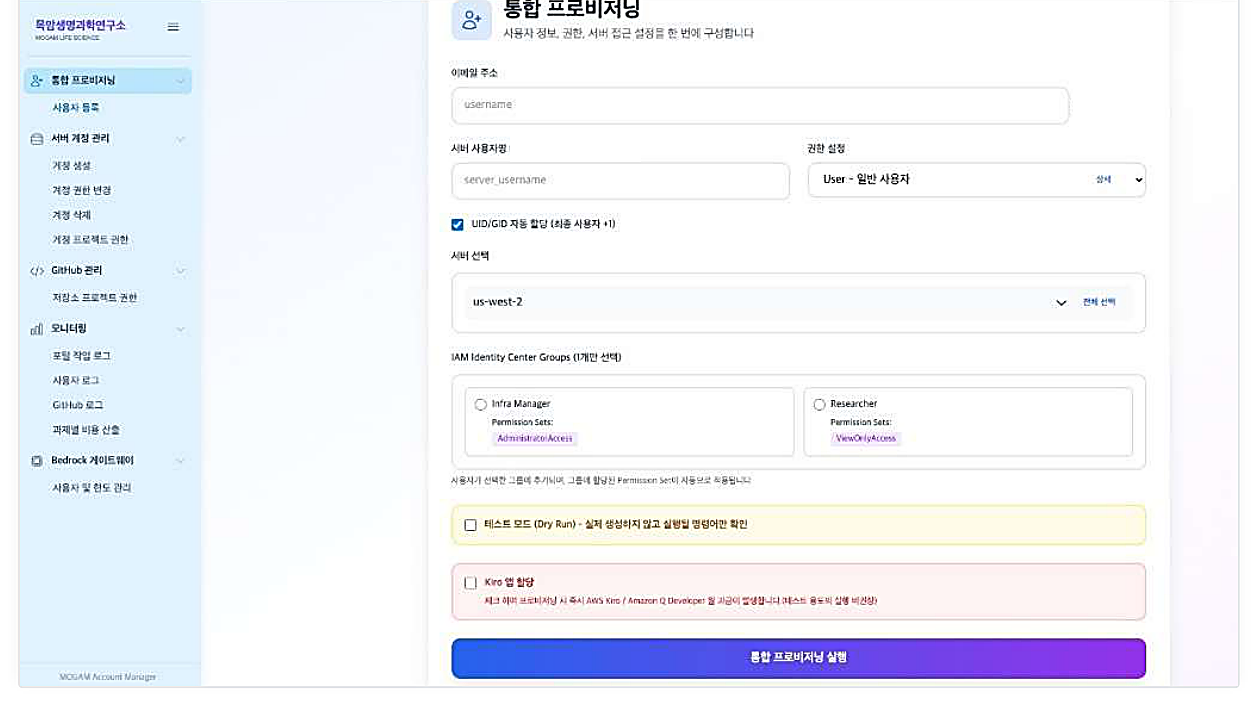
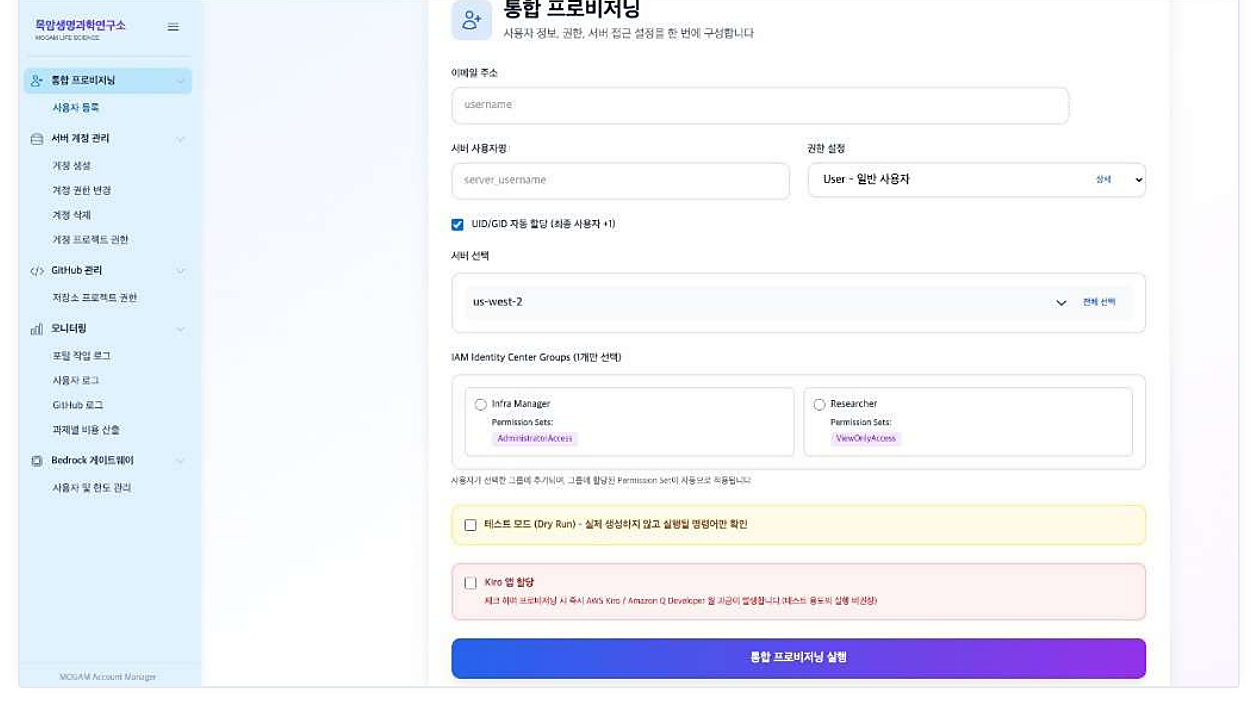
fix(site): 포털·비용 화면의 깨진 가림을 고치고 익명 라벨로 정리
- 단색 가림 상자 대신 바로 옆 깨끗한 열의 행별 색을 이어 붙여 행 강조색·구분선이 끊기지 않게 함
- 비용 화면: 카드 밖으로 삐져나가던 흰 상자 제거, 반쯤 지워졌던 표 머리글 복원(데이터 행만 카드 안쪽에서 가림), 금액 칸은 ₩ ●●●,●●● 로 표시
- Bedrock 사용자 칸은 user01…, 작업 로그 인스턴스 칸은 headnode-01… 익명 라벨로 채움
- 선명화를 약하게 조정(원본 슬라이드의 블록 노이즈를 덜 키움), 이미지 4장 링크에 ?v=2

diff --git a/index.html b/index.html
@@ -613,8 +613,8 @@
                 <img src="assets/arch/finops-architecture.svg" alt="과제별 비용 정산 아키텍처 — 수집 에이전트·CUR·S3 Inventory를 Glue·Athena로 결합하고 Flask 배분 엔진과 React 대시보드로 제공, 배분 로직 4단계" loading="lazy" decoding="async">
                 <span>아키텍처·배분 로직</span>
               </a>
-              <a class="arch-fig" href="assets/arch/finops-cost-dashboard.png" target="_blank" rel="noopener">
-                <img src="assets/arch/thumb/finops-cost-dashboard.webp" alt="과제별 비용 대시보드 — 달력·일/월 전환, 과제·사용자·인스턴스별 보기, USD/KRW, 엑셀 다운로드(금액·과제명 가림)" loading="lazy" decoding="async">
+              <a class="arch-fig" href="assets/arch/finops-cost-dashboard.png?v=2" target="_blank" rel="noopener">
+                <img src="assets/arch/thumb/finops-cost-dashboard.webp?v=2" alt="과제별 비용 대시보드 — 달력·일/월 전환, 과제·사용자·인스턴스별 보기, USD/KRW, 엑셀 다운로드(금액·과제명 가림)" loading="lazy" decoding="async">
                 <span>과제별 비용 대시보드</span>
               </a>
             </div>
@@ -713,18 +713,18 @@
             </div>
           </div>
           <div class="arch-figs">
-            <span class="arch-figs__label">포털 화면 — 클릭하면 원본이 열립니다 · 계정명과 호스트명은 가렸습니다</span>
+            <span class="arch-figs__label">포털 화면 — 클릭하면 원본이 열립니다 · 계정명과 호스트명은 익명으로 바꿨습니다</span>
             <div class="arch-figs__row">
-              <a class="arch-fig" href="assets/arch/portal-onboarding.png" target="_blank" rel="noopener">
-                <img src="assets/arch/thumb/portal-onboarding.webp" alt="통합 프로비저닝 — 이메일·서버 계정 매핑, IAM Identity Center 그룹 배치, Dry Run 검증을 한 화면에서 실행" loading="lazy" decoding="async">
+              <a class="arch-fig" href="assets/arch/portal-onboarding.png?v=2" target="_blank" rel="noopener">
+                <img src="assets/arch/thumb/portal-onboarding.webp?v=2" alt="통합 프로비저닝 — 이메일·서버 계정 매핑, IAM Identity Center 그룹 배치, Dry Run 검증을 한 화면에서 실행" loading="lazy" decoding="async">
                 <span>통합 프로비저닝</span>
               </a>
-              <a class="arch-fig" href="assets/arch/portal-action-log.png" target="_blank" rel="noopener">
-                <img src="assets/arch/thumb/portal-action-log.webp" alt="포털 작업 로그 — 계정 추가·권한 수정 같은 관리 조작을 dry-run 여부와 함께 이력으로 조회(호스트명 가림)" loading="lazy" decoding="async">
+              <a class="arch-fig" href="assets/arch/portal-action-log.png?v=2" target="_blank" rel="noopener">
+                <img src="assets/arch/thumb/portal-action-log.webp?v=2" alt="포털 작업 로그 — 계정 추가·권한 수정 같은 관리 조작을 dry-run 여부와 함께 이력으로 조회(호스트명은 익명 처리)" loading="lazy" decoding="async">
                 <span>포털 작업 로그</span>
               </a>
-              <a class="arch-fig" href="assets/arch/portal-bedrock-quota.png" target="_blank" rel="noopener">
-                <img src="assets/arch/thumb/portal-bedrock-quota.webp" alt="Bedrock 게이트웨이 사용자 관리 — 팀별 사용자의 월 사용량과 한도, 단계 상향(사용자명 가림)" loading="lazy" decoding="async">
+              <a class="arch-fig" href="assets/arch/portal-bedrock-quota.png?v=2" target="_blank" rel="noopener">
+                <img src="assets/arch/thumb/portal-bedrock-quota.webp?v=2" alt="Bedrock 게이트웨이 사용자 관리 — 팀별 사용자의 월 사용량과 한도, 단계 상향(사용자명은 익명 처리)" loading="lazy" decoding="async">
                 <span>Bedrock 사용자·한도 관리</span>
               </a>
             </div>
